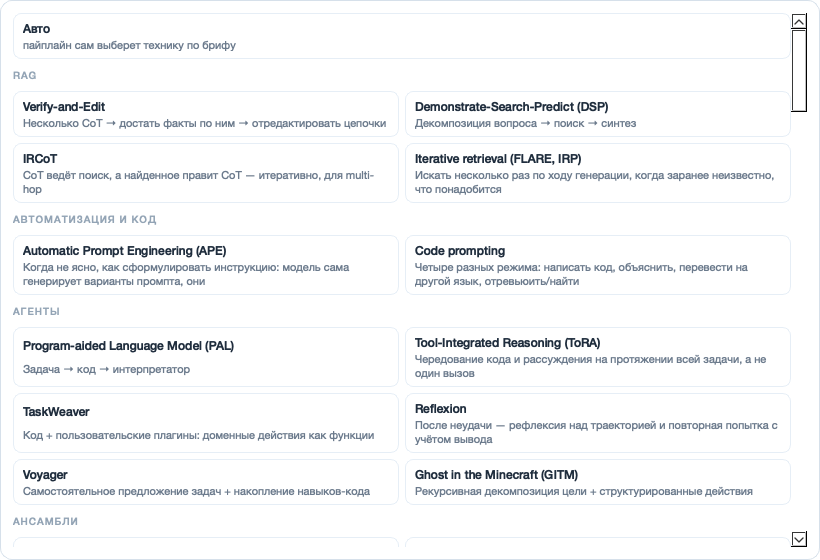
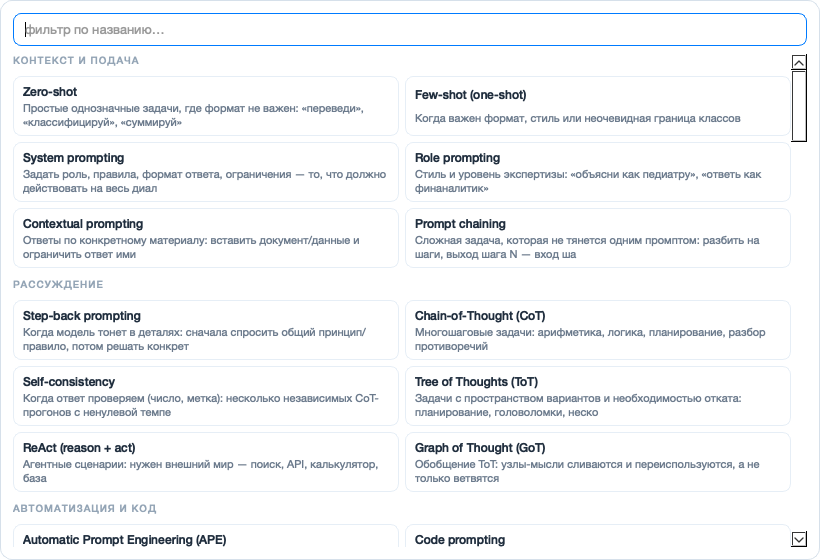
Единый компонент выпадающих списков: одна панель для провайдера, модели, вариантов и техник

Changed region(s): [[0.0, 0.0304, 0.9756, 0.9714], [0.4878, 0.9411, 0.6402, 0.9714], [0.9451, 0.0304, 1.0, 0.0911]]

diff --git a/desktop/app.py b/desktop/app.py
@@ -198,7 +198,7 @@ CATEGORY_LABELS = {
 class TechniqueItem(QFrame):
     clicked = pyqtSignal(str)
 
-    def __init__(self, key: str, name: str, hint: str) -> None:
+    def __init__(self, key: str, name: str, hint: str = "") -> None:
         super().__init__()
         self.key = key
         self.setObjectName("techItem")
@@ -223,42 +223,64 @@ class TechniqueItem(QFrame):
         self.clicked.emit(self.key)
 
 
-class TechniquePicker(QPushButton):
-    """Кнопка, открывающая панель техник: две колонки, группы по категориям, подсказки."""
+class Dropdown(QPushButton):
+    """Единый выпадающий список: одна панель на провайдера, модель, варианты и техники.
 
-    def __init__(self) -> None:
-        super().__init__("авто — пайплайн выберет сам")
+    Умеет: одну или две колонки, заголовки категорий, подсказки, поиск по списку.
+    """
+
+    changed = pyqtSignal(str)
+
+    def __init__(
+        self,
+        placeholder: str = "—",
+        columns: int = 1,
+        searchable: bool = False,
+        popup_width: int = 380,
+    ) -> None:
+        super().__init__(placeholder)
         self.setObjectName("picker")
+        self._placeholder = placeholder
         self._items: list[dict] = []
         self._current = ""
-        self._current_label = "авто — пайплайн выберет сам"
+        self._columns = columns
+        self._searchable = searchable
+        self._popup_width = popup_width
+        self._popup: QFrame | None = None
         self.clicked.connect(self._open)
 
+    # ── данные ───────────────────────────────────────────────────
     def set_items(self, items: list[dict], keep: str = "") -> None:
         self._items = items
-        if keep:
-            self.select_key(keep, emit=False)
+        want = keep or self._current
+        if want and any(item.get("key") == want for item in items):
+            self.set_current(want)
 
     def current_key(self) -> str:
         return self._current
 
-    def select_key(self, key: str) -> None:
+    def set_current(self, key: str, emit: bool = False) -> None:
         self._current = key
-        if not key:
-            self._current_label = "авто — пайплайн выберет сам"
-        else:
-            item = next((i for i in self._items if i.get("key") == key), None)
-            self._current_label = item.get("name", key) if item else key
-        self.setText(self._current_label)
+        item = next((i for i in self._items if i.get("key") == key), None)
+        self.setText(item.get("label") or item.get("name") or key if item else (key or self._placeholder))
+        if emit:
+            self.changed.emit(key)
 
+    # ── панель ───────────────────────────────────────────────────
     def _open(self) -> None:
         popup = QFrame(self, Qt.WindowType.Popup)
-        self._popup = popup
         popup.setObjectName("techniquePopup")
+        self._popup = popup
 
         outer = QVBoxLayout(popup)
         outer.setContentsMargins(12, 12, 12, 12)
         outer.setSpacing(8)
+
+        search: QLineEdit | None = None
+        if self._searchable:
+            search = QLineEdit()
+            search.setPlaceholderText("фильтр по названию…")
+            outer.addWidget(search)
 
         scroll = QScrollArea(popup)
         scroll.setWidgetResizable(True)
@@ -270,40 +292,68 @@ class TechniquePicker(QPushButton):
         body.setContentsMargins(0, 0, 0, 0)
         body.setSpacing(10)
 
-        auto = TechniqueItem("", "Авто", "пайплайн сам выберет технику по брифу")
-        auto.clicked.connect(lambda key: self._choose(popup, key))
-        body.addWidget(auto)
+        entries: list[tuple[TechniqueItem, str]] = []
+        headers: list[tuple[QLabel, list[TechniqueItem]]] = []
 
         grouped: dict[str, list[dict]] = {}
         for item in self._items:
-            grouped.setdefault(item.get("category", "other"), []).append(item)
+            grouped.setdefault(item.get("category") or "", []).append(item)
 
-        for category, items in sorted(grouped.items(), key=lambda kv: CATEGORY_LABELS.get(kv[0], kv[0])):
-            header = QLabel(CATEGORY_LABELS.get(category, category).upper())
-            header.setObjectName("catHeader")
-            body.addWidget(header)
+        multi_group = any(key for key in grouped)
+
+        for category, items in grouped.items():
+            if multi_group:
+                header = QLabel(CATEGORY_LABELS.get(category, category).upper() if category else "ОСНОВНОЕ")
+                header.setObjectName("catHeader")
+                body.addWidget(header)
 
             grid = QGridLayout()
             grid.setSpacing(6)
+            grid_items: list[TechniqueItem] = []
             for index, item in enumerate(items):
-                widget = TechniqueItem(item["key"], item.get("name", item["key"]), item.get("hint", ""))
-                widget.clicked.connect(lambda key: self._choose(popup, key))
-                grid.addWidget(widget, index // 2, index % 2)
-            grid.setColumnStretch(0, 1)
-            grid.setColumnStretch(1, 1)
+                label = item.get("label") or item.get("name") or item["key"]
+                widget = TechniqueItem(item["key"], label, item.get("hint", ""))
+                widget.clicked.connect(lambda key: self._choose(key))
+                grid.addWidget(widget, index // self._columns, index % self._columns)
+                entries.append((widget, f"{label} {item.get('hint','')} {category}".lower()))
+                grid_items.append(widget)
+            for column in range(self._columns):
+                grid.setColumnStretch(column, 1)
             body.addLayout(grid)
+            if multi_group:
+                headers.append((header, grid_items))
 
         body.addStretch(1)
         scroll.setWidget(content)
         outer.addWidget(scroll)
 
-        popup.resize(820, 560)
+        def apply_filter(text: str) -> None:
+            needle = text.strip().lower()
+            for widget, haystack in entries:
+                widget.setVisible(needle in haystack)
+            for header, grid_items in headers:
+                header.setVisible(any(w.isVisible() for w in grid_items))
+
+        if search is not None:
+            search.textChanged.connect(apply_filter)
+
+        # Высота по содержимому: пустая панель на весь экран выглядит неаккуратно.
+        rows = sum(
+            (len(items) + self._columns - 1) // self._columns for items in grouped.values()
+        )
+        height = 44 + rows * 50 + (len(grouped) * 24 if multi_group else 0)
+        if self._searchable:
+            height += 46
+        popup.resize(self._popup_width, min(560, max(120, height)))
         popup.move(self.mapToGlobal(QPoint(0, self.height() + 4)))
         popup.show()
+        if search is not None:
+            search.setFocus()
 
-    def _choose(self, popup: QFrame, key: str) -> None:
-        self.select_key(key)
-        popup.close()
+    def _choose(self, key: str) -> None:
+        self.set_current(key, emit=True)
+        if self._popup is not None:
+            self._popup.close()
 
 
 class Card(QFrame):
@@ -352,7 +402,7 @@ class MainWindow(QMainWindow):
         self.status.setObjectName("status")
         outer.addWidget(self.status)
 
-        self.provider.currentTextChanged.connect(self._on_provider_changed)
+        self.provider.changed.connect(self._on_provider_changed)
         self.load_models()
         self.load_techniques()
 
@@ -384,7 +434,7 @@ class MainWindow(QMainWindow):
         box.addWidget(self.thoughts, 1)
 
         box.addWidget(self._mini_label("Техника"))
-        self.technique = TechniquePicker()
+        self.technique = Dropdown("авто — пайплайн выберет сам", columns=2, searchable=True, popup_width=820)
         box.addWidget(self.technique)
         self.technique_hint = QLabel("конкретная техника → промпт собирается по её методике")
         self.technique_hint.setObjectName("muted")
@@ -397,8 +447,15 @@ class MainWindow(QMainWindow):
         left = QVBoxLayout()
         left.setSpacing(4)
         left.addWidget(self._mini_label("Провайдер"))
-        self.provider = QComboBox()
-        self.provider.addItems(["ollama", "gemini", "openai"])
+        self.provider = Dropdown("Ollama", popup_width=300)
+        self.provider.set_items(
+            [
+                {"key": "ollama", "label": "Ollama (локально/облако)"},
+                {"key": "gemini", "label": "Gemini"},
+                {"key": "openai", "label": "OpenAI"},
+            ]
+        )
+        self.provider.set_current("ollama")
         left.addWidget(self.provider)
         row.addLayout(left, 1)
 
@@ -407,10 +464,9 @@ class MainWindow(QMainWindow):
         mid.addWidget(self._mini_label("Модель"))
         model_row = QHBoxLayout()
         model_row.setSpacing(6)
-        self.model = QComboBox()
-        self.model.setEditable(True)
-        self.model.addItems(FALLBACK_MODELS)
-        self.model.setCurrentText("minimax-m3.1-flash:cloud")
+        self.model = Dropdown("выбери модель", searchable=True, popup_width=460)
+        self.model.set_items([{"key": name, "label": name} for name in FALLBACK_MODELS])
+        self.model.set_current("minimax-m3.1-flash:cloud")
         model_row.addWidget(self.model, 1)
         self.refresh_button = QPushButton("↻")
         self.refresh_button.setObjectName("ghost")
@@ -444,9 +500,13 @@ class MainWindow(QMainWindow):
         variants_label = QLabel("Вариантов техник:")
         variants_label.setObjectName("muted")
         variants_row.addWidget(variants_label)
-        self.variants = QComboBox()
-        self.variants.addItems(["3", "2", "1"])
-        self.variants.setFixedWidth(70)
+        self.variants = Dropdown("3", popup_width=160)
+        self.variants.set_items([
+            {"key": "3", "label": "3 варианта"},
+            {"key": "2", "label": "2 варианта"},
+            {"key": "1", "label": "1 вариант"},
+        ])
+        self.variants.set_current("3")
         variants_row.addWidget(self.variants)
         variants_row.addStretch(1)
         box.addLayout(variants_row)
@@ -487,6 +547,7 @@ class MainWindow(QMainWindow):
         for item in techniques:
             if item.get("status") == "procedure":
                 item["name"] = f"{item.get('name', item['key'])} (процедура)"
+            item["label"] = item.get("name", item["key"])
         self.technique.set_items(techniques, keep=self.technique.current_key())
         self.technique_hint.setText(f"конкретная техника → промпт по её методике ({len(techniques)} доступно)")
 
@@ -505,12 +566,10 @@ class MainWindow(QMainWindow):
             )
             return
 
-        current = self.model.currentText().strip()
-        self.model.blockSignals(True)
-        self.model.clear()
-        self.model.addItems(names)
-        self.model.setCurrentText(current if current in names else names[0])
-        self.model.blockSignals(False)
+        current = self.model.current_key().strip()
+        self.model.set_items([{"key": name, "label": name} for name in names], keep=current)
+        if not self.model.current_key():
+            self.model.set_current(names[0])
         self.models_hint.setText(f"загружено моделей: {len(names)}")
 
     def _on_provider_changed(self, provider: str) -> None:
@@ -604,8 +663,8 @@ class MainWindow(QMainWindow):
             self.status.setText("напиши поток мыслей")
             return
 
-        provider = self.provider.currentText()
-        model = self.model.currentText().strip()
+        provider = self.provider.current_key()
+        model = self.model.current_key().strip()
         api_key = self.api_key.text().strip()
 
         if not model:
@@ -622,7 +681,7 @@ class MainWindow(QMainWindow):
             "model": model,
             "apiKey": api_key,
             "deterministic": self.deterministic.isChecked(),
-            "variants": int(self.variants.currentText()),
+            "variants": int(self.variants.current_key() or "3"),
         }
         if technique_key:
             payload["manualTechnique"] = technique_key
@@ -988,10 +1047,19 @@ def main() -> int:
         if "--screenshot-popup" in sys.argv:
             popup_index = sys.argv.index("--screenshot-popup")
             popup_path = sys.argv[popup_index + 1] if len(sys.argv) > popup_index + 1 else "/tmp/popup.png"
-            window.technique._open()
-            app.processEvents()
-            window.technique._popup.grab().save(popup_path)
-            print(f"попап: {popup_path}")
+            base = popup_path.rsplit(".", 1)[0]
+            for name, widget in (
+                ("provider", window.provider),
+                ("model", window.model),
+                ("variants", window.variants),
+                ("technique", window.technique),
+            ):
+                widget._open()
+                app.processEvents()
+                if widget._popup is not None:
+                    widget._popup.grab().save(f"{base}-{name}.png")
+                    widget._popup.close()
+            print(f"попапы: {base}-*.png")
         print(f"скриншот: {path}")
         return 0
 
